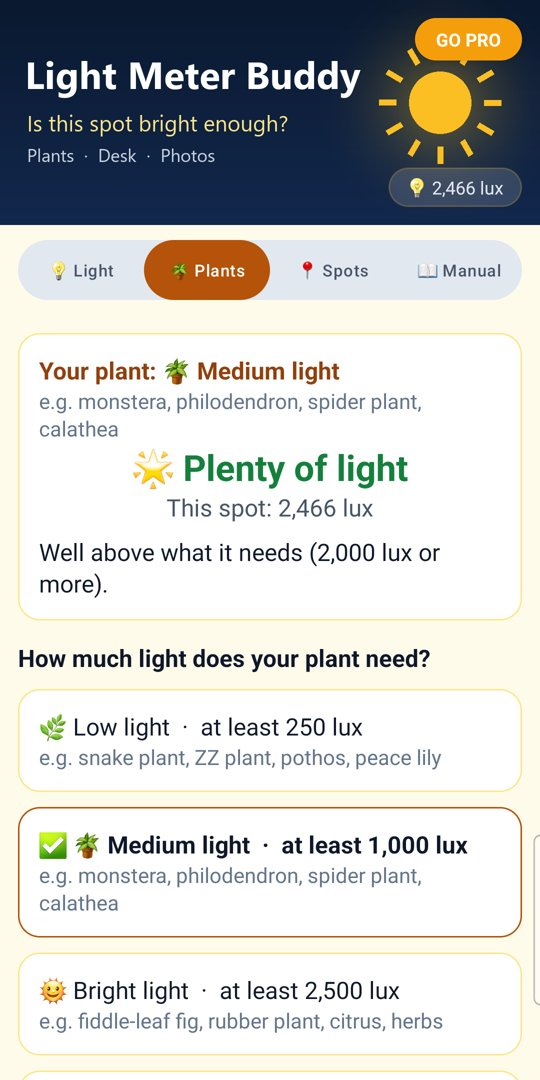
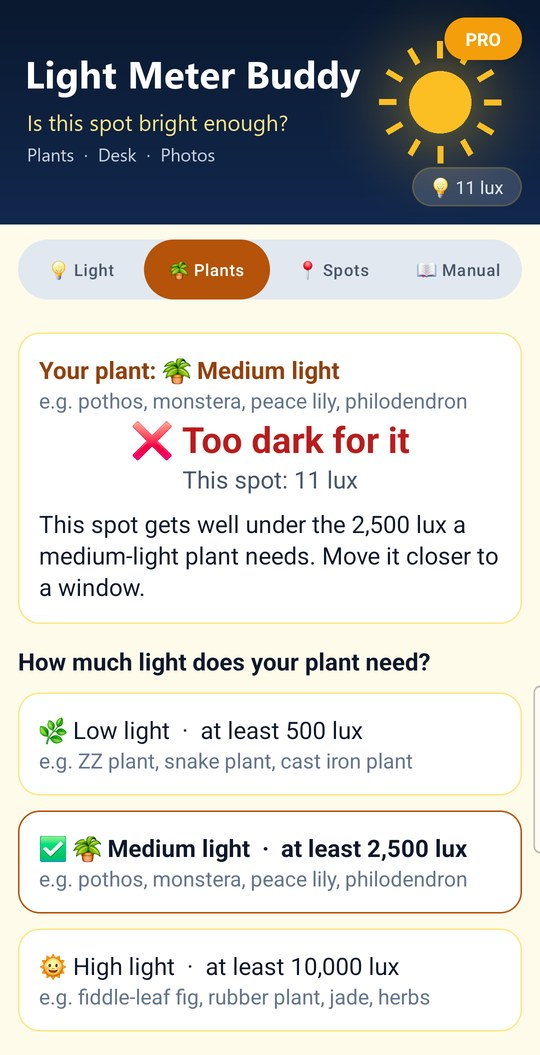
Add files via upload

Changed region(s): [[0.0, 0.0, 1.0, 0.9706], [0.0593, 0.0607, 0.6815, 0.1517], [0.0593, 0.9706, 0.0889, 1.0]]

diff --git a/light-meter-buddy/index.html b/light-meter-buddy/index.html
@@ -40,7 +40,7 @@
 
 
         <h3>👋 What Light Meter Buddy does</h3>
-        <p>Light Meter Buddy measures how much light falls on a spot, in lux, with the phone's own light sensor, and tells you in plain words what that means: dim, living room, office, very bright or daylight. It checks whether a plant will be happy in a spot, whether a desk is bright enough to work at, and gives a simple camera exposure.</p>
+        <p>Light Meter Buddy measures how much light falls on a spot, in lux, with the phone's own light sensor, and tells you in plain words what that means: dim, a low, medium or high level room, very bright or daylight. It checks whether a plant will be happy in a spot, whether a desk is bright enough to work at, and gives a simple camera exposure.</p>
         <p>It never asks for permissions and works without internet.</p>
 
         <h3>📱 How to measure</h3>
@@ -66,9 +66,9 @@
         <ul>
             <li>Under 5 lux: very dim (too dim to measure)</li>
             <li>5-50 lux: dim, like a hallway or a room in the evening</li>
-            <li>50-200 lux: ordinary living-room lighting</li>
-            <li>200-500 lux: kitchen or reading light</li>
-            <li>500-1,000 lux: office lighting or a bright room</li>
+            <li>50-200 lux: low level room, like ordinary living-room lighting</li>
+            <li>200-500 lux: medium level room, like a kitchen or light for reading</li>
+            <li>500-1,000 lux: high level room, like office lighting or a very bright room</li>
             <li>1,000-10,000 lux: near a window, or cloudy daylight outside</li>
             <li>Over 10,000 lux: outdoor daylight or direct sun</li>
         </ul>
@@ -77,12 +77,12 @@
         <h3>🪴 Plants</h3>
         <p>Pick how much light your plant needs and hold the phone at leaf height, facing the window:</p>
         <ul>
-            <li>🌿 Low light (snake plant, ZZ plant, pothos, peace lily): at least 250 lux</li>
-            <li>🪴 Medium light (monstera, philodendron, spider plant, calathea): at least 1,000 lux</li>
-            <li>🌞 Bright light (fiddle-leaf fig, rubber plant, citrus, herbs): at least 2,500 lux</li>
-            <li>🌵 Sun lovers (cacti, succulents, aloe): at least 10,000 lux</li>
+            <li>🌿 Low light (ZZ plant, snake plant, cast iron plant): about 500-2,500 lux</li>
+            <li>🪴 Medium light (pothos, monstera, peace lily, philodendron): about 2,500-10,000 lux</li>
+            <li>🌞 High light (fiddle-leaf fig, rubber plant, jade, herbs): about 10,000-25,000 lux</li>
+            <li>🌵 Direct sun (cacti, succulents, fruiting plants): about 25,000-100,000 lux</li>
         </ul>
-        <p>These are common indoor-gardening guidelines. Measure during the day, around midday if you can: the light by a window changes a lot through the day and with the seasons. ⭐ Pro's 📈 Light log records a spot all day.</p>
+        <p>These are the usual indoor-plant ranges. Measure during the day, around midday if you can: the light by a window changes a lot through the day and with the seasons. ⭐ Pro's 📈 Light log records a spot all day.</p>
 
         <h3>💼 Desk check</h3>
         <p>For reading, writing and screen work, the usual guidance is about 500 lux on the desk (for example the European standard EN 12464-1 for offices). Under 300 lux is dim for paper work; under 100 lux will tire your eyes. Very bright light on a desk (sun or a strong lamp) can cause glare on a screen.</p>
@@ -113,7 +113,7 @@
         <p>Google Play handles the Pro purchase.</p>
 
         <h3>About</h3>
-        <p>Light Meter Buddy v1.0 (Build 1)</p>
+        <p>Light Meter Buddy v1.1 (Build 2)</p>
         <p>Publisher: AppStack Studio</p>
 
 
@@ -125,8 +125,8 @@
             <tr><td>Very dim light</td><td>Often shows 0 or a number the sensor can't really measure</td><td><strong>Shows "under 5 lux" and 🌑 Very dim instead of a number it can't trust</strong></td></tr>
         </table>
         <ul>
-            <li>💬 Plain-words answers: dim, living room, office, very bright or daylight, not just a number.</li>
-            <li>🪴 A plant check for low-light, medium-light, bright-light plants and sun lovers.</li>
+            <li>💬 Plain-words answers: dim, a low, medium or high level room, very bright or daylight, not just a number.</li>
+            <li>🪴 A plant check for low-light, medium-light and high-light plants and direct sun.</li>
             <li>💼 A desk check against the usual guidance for reading and screen work (about 500 lux).</li>
             <li>⭐ Pro: saved spots compared brightest first, 📈 all-day light logs, 📷 photo help, and PDF and CSV reports.</li>
         </ul>
@@ -144,7 +144,7 @@
         <div class="screenshot-card"><img src="light-meter-buddy-spots.jpg" alt="Saved spots, brightest first"><p><strong>3. Spots (Pro)</strong><br>Your spots side by side, brightest first, with a PDF or CSV.</p></div>
         <div class="screenshot-card"><img src="light-meter-buddy-log.jpg" alt="Light log summary"><p><strong>4. Light log (Pro)</strong><br>A spot's light for hours: brightest time and hours bright enough for your plant.</p></div>
     </div>
-    <p style="font-size: 13px; color: #94A3B8;">Screenshots: Light Meter Buddy 1.0 on a Samsung Galaxy S20 and S24.</p>
+    <p style="font-size: 13px; color: #94A3B8;">Screenshots: Light Meter Buddy 1.1 on a Samsung Galaxy S20 and S24.</p>
     <div class="footer">
         &copy; 2026 AppStack Studio. All rights reserved. | Support: <a href="mailto:appstack1966@gmail.com">appstack1966@gmail.com</a>
     </div>
